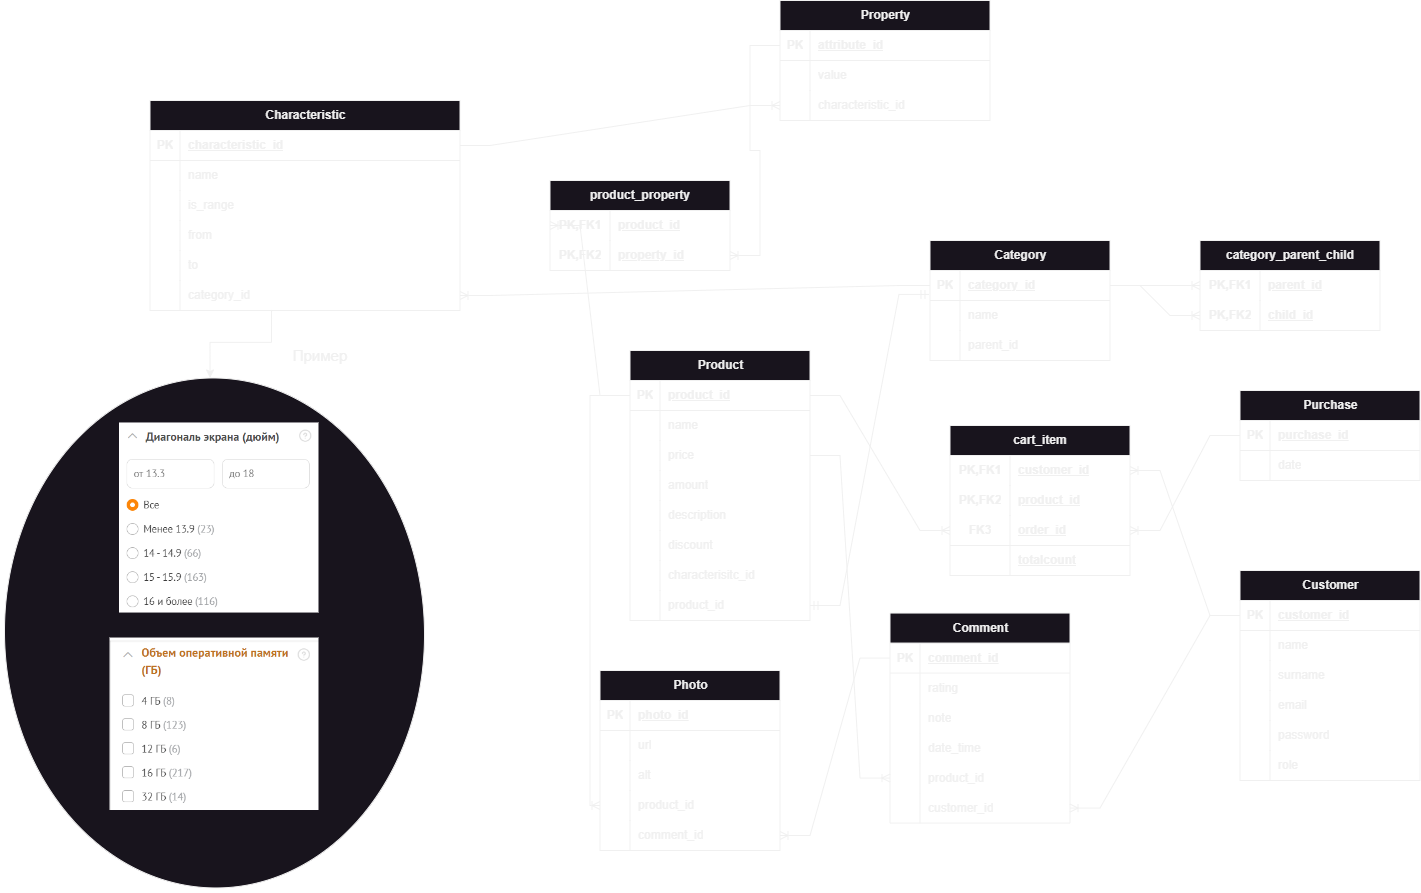
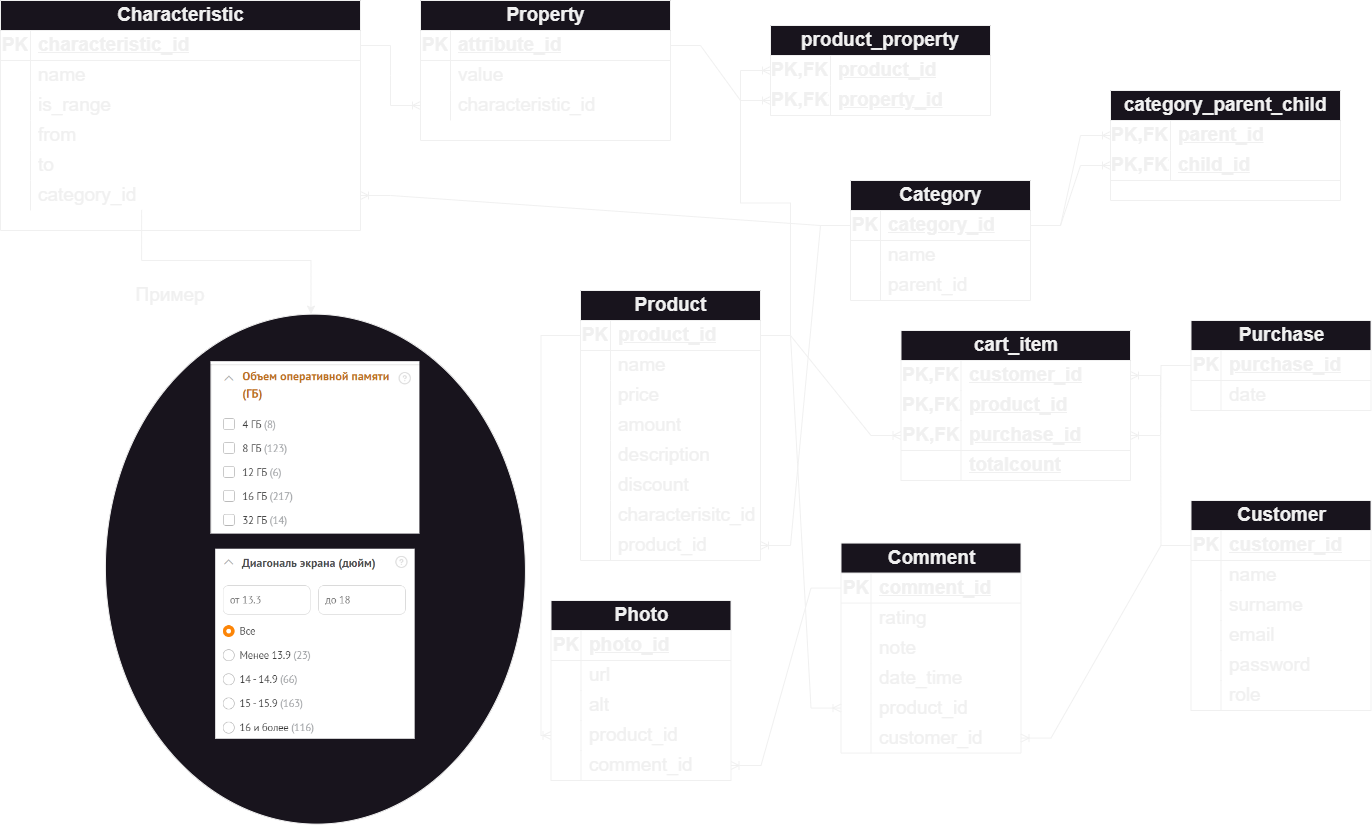
feat(backend): changed description

diff --git a/README.md b/README.md
@@ -1,1 +1,58 @@
 # e-shop
+
+Перед запуском необходимо скачать и запустить Docker Engine.
+В папке Dokcer находится всё необходимоё для развёртки проекта на локальной машине.
+
+docker-compose.yml - файл позволяющий запускать все контейнеры вместе\
+create_tables.sql - файл для создания бд\
+fill_tables.sql - файл для заполенения бд
+
+\
+Чтобы запустить все контейнеры вместе достаточно выполнить следующую комманду:
+```
+docker-compose up
+```
+\
+\
+Структура базы данных представлена ниже.
+\
+\
+![database_model.png](backend%2Fsrc%2Fmain%2Fresources%2Fdatabase_model.png)
+
+# Таблица Customer.
+У Customer может быть несколько комментариев, товаров в корзине (CartItem) и совершённые покупки.
+
+# Таблица Comment.
+Одному комментарию соответсвует один продукт и пользователь, который его оставил. 
+
+# Таблица Photo.
+Фотография обязательно должна ссылать или на продукт или на комментарий в котором она используется.
+
+# Таблица Photo.
+Фотография обязательно должна ссылать или на продукт или на комментарий в котором она используется.
+
+# Таблица CartItem.
+В этой таблице хранятся товары и их кол-во, которые пользователь хочет приобрести.(Корзина) 
+Когда пользователь добавляет товар в корзину,
+новой сущности cartItem в purchase_id присваивается 1. Это id ничьеной покупки, она создаётся в бд при запуске докера.
+Сделано это по той причине, что это primary key и ему должно быть присвоено какое-то занчение. 
+Когда покупка состоится, этой сущности cartItem в purchase_id присвоится id состоявшейся покупки.
+
+# Таблица Product.
+Продукт может находиться только в одной категории.
+
+# Таблица Category.
+Одна категория может находиться в нескольких категориях.
+
+# Таблица Characteristics.
+Характеристика принадлежит только одной категории. Все хар-ки родительской категории наследуются дочерними категориями, 
+если isDiverged = false. Если хар-ка диапазончатая, то у неё обязательно должны быть поля from и to.
+
+# Таблица Property.
+Это те значения хар-ки, которые могут принимать товары. К примеру "Объём оперативной памяти" - хар-ка. "4 ГБ",
+"8 ГБ" - её занчения. Эти значения относятся только к этой хар-ки. Помимого прочего товары могут состоять из этих 
+значение(отношение многие ко многим).
+
+\
+По указанной ссылке можно найти все методо api postman-е.\
+https://www.postman.com/martian-meadow-737952/workspace/e-shop/collection/27254100-6a2c8515-5874-4c2c-9845-d64f6953290e?action=share&creator=27254100
